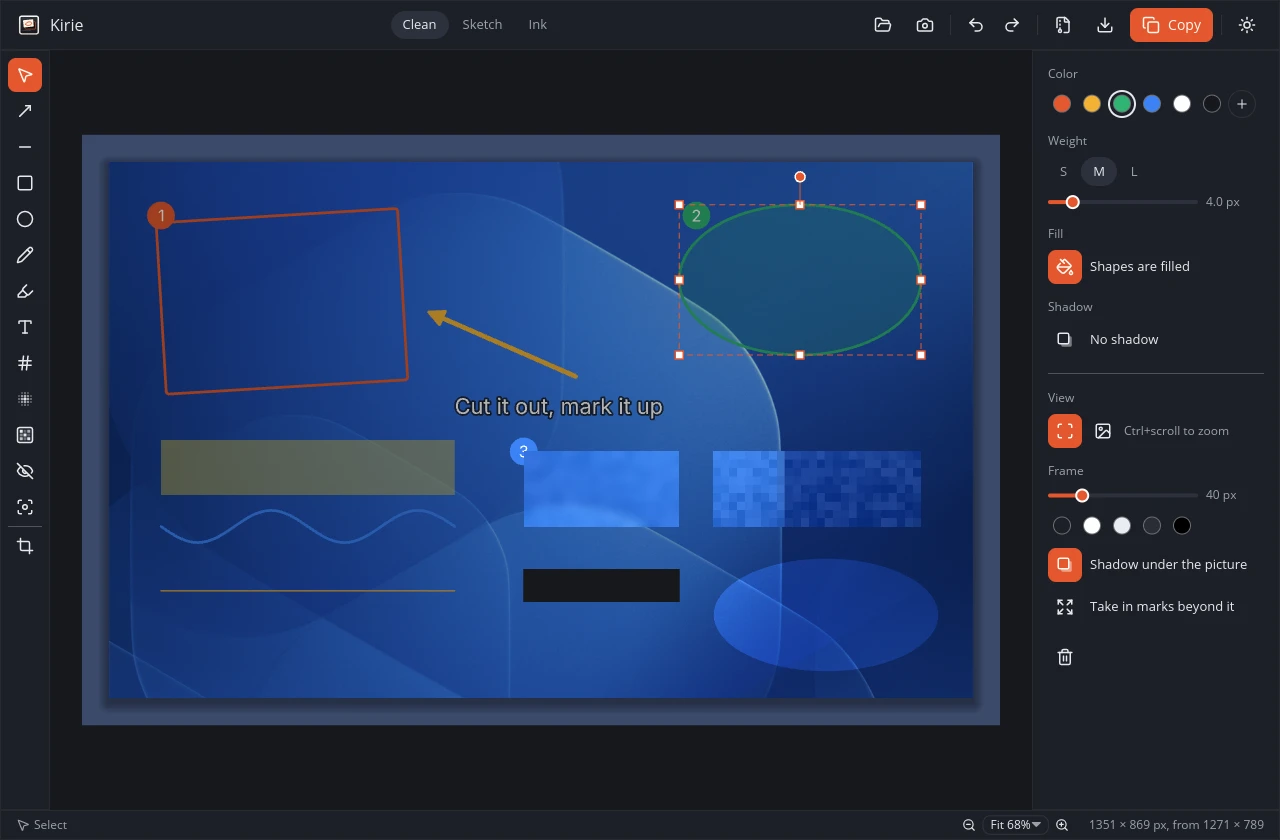
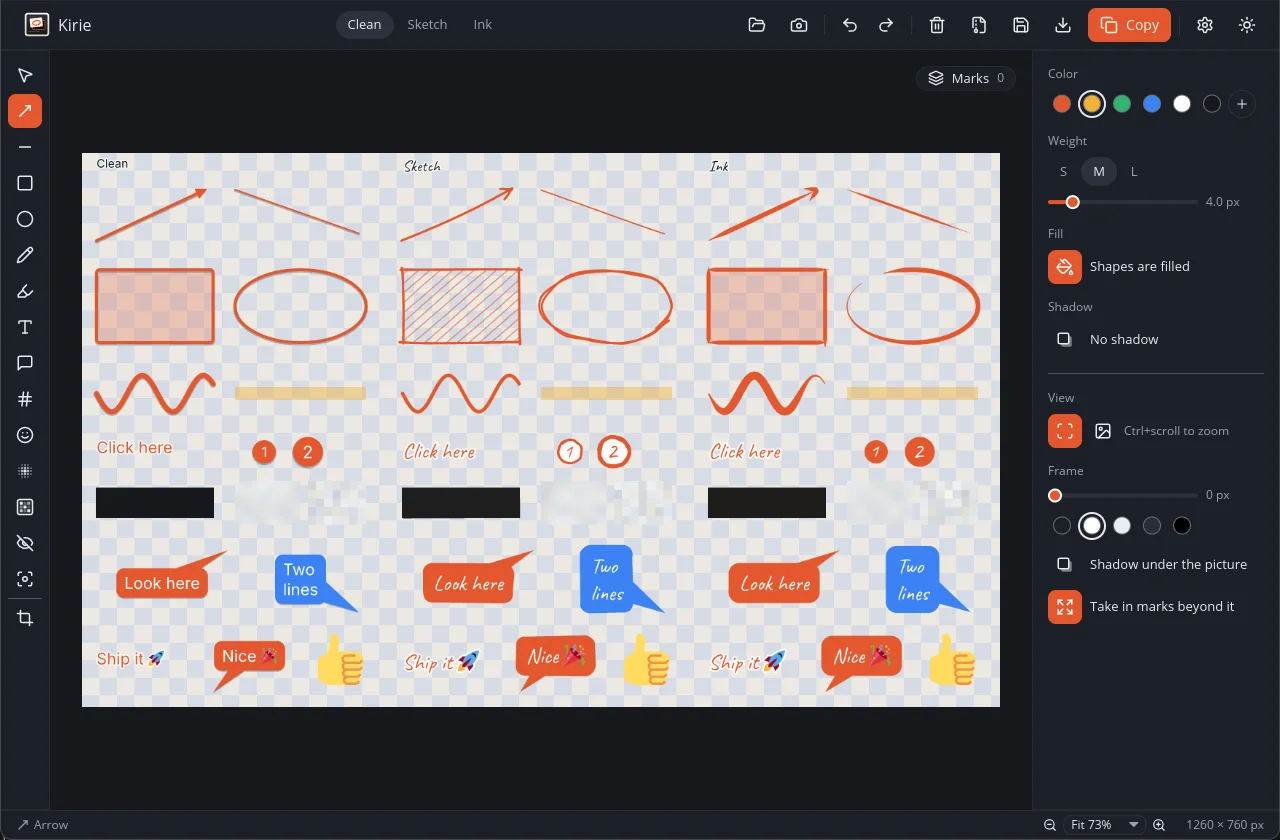
chore: update readme and screenshots

diff --git a/README.md b/README.md
@@ -16,9 +16,9 @@ piece out of your screen, mark it up right there or later in the editor, and cop
 It runs on GNOME, COSMIC, KDE Plasma and the layer-shell compositors (sway, Hyprland, niri,
 Wayfire). X11 is not supported. More at [samuelba.dev/kirie](https://samuelba.dev/kirie).
 
-![The overlay: a region of the screen cut out, with a box, a step number, an arrow and text drawn on it, and the toolbar under the selection](docs/screenshots/overlay.webp)
+![The overlay: a region of the screen cut out, with a tilted box, an arrow and the text "Kirie 🚀" being typed on it, and the toolbar under the selection](docs/screenshots/overlay.webp)
 
-![The editor: one of each mark on a screenshot, with the style, color, weight, fill, shadow and frame settings on the right](docs/screenshots/editor.webp)
+![The editor: every mark in the Clean, Sketch and Ink styles side by side, with the style, color, weight, fill, shadow and frame settings on the right](docs/screenshots/editor.webp)
 
 ## Install
 
